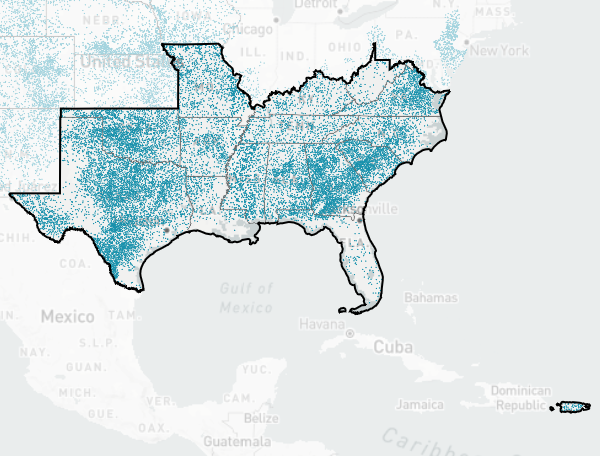
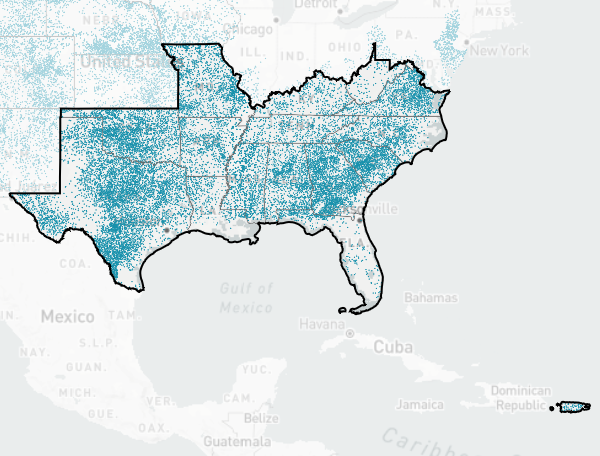
Add small barriers to region maps and render latest

Changed region(s): [[0.0, 0.0, 0.72, 0.6447], [0.57, 0.5219, 0.63, 0.614]]

diff --git a/analysis/post/create_region_maps.py b/analysis/post/create_region_maps.py
@@ -20,6 +20,7 @@ region_tiles = Path("data/tiles/boundary.mbtiles").absolute()
 mask_tiles = Path("data/tiles/mask.mbtiles").absolute()
 state_tiles = Path("data/tiles/State.mbtiles").absolute()
 dam_tiles = Path("tiles/dams.mbtiles").absolute()
+small_barrier_tiles = Path("tiles/small_barriers.mbtiles").absolute()
 
 
 WIDTH = 600
@@ -60,6 +61,12 @@ STYLE = {
             "minzoom": 2,
             "maxzoom": 16,
         },
+        "small_barriers": {
+            "type": "vector",
+            "url": f"mbtiles://{small_barrier_tiles}",
+            "minzoom": 2,
+            "maxzoom": 16,
+        },
     },
     "layers": [
         {"id": "basemap", "type": "raster", "source": "basemap"},
@@ -74,6 +81,23 @@ STYLE = {
                     "stops": [
                         [2, 0.5],
                         [6, 1.5],
+                    ],
+                },
+                "circle-opacity": 1,
+                "circle-color": "#1891ac",
+            },
+        },
+        {
+            "id": "small_barriers",
+            "source": "small_barriers",
+            "source-layer": "ranked_small_barriers",
+            "type": "circle",
+            "paint": {
+                "circle-radius": {
+                    "base": 0.25,
+                    "stops": [
+                        [2, 0.25],
+                        [6, 1],
                     ],
                 },
                 "circle-opacity": 1,
@@ -133,8 +157,8 @@ df = (
 for id, row in df.bounds.iterrows():
     print(f"Rendering map for {id}")
     style = deepcopy(STYLE)
-    style["layers"][3]["filter"] = ["==", "id", id]
     style["layers"][4]["filter"] = ["==", "id", id]
+    style["layers"][5]["filter"] = ["==", "id", id]
     with Map(
         json.dumps(style), WIDTH, HEIGHT, ratio=1, token=TOKEN, provider="mapbox"
     ) as map:
